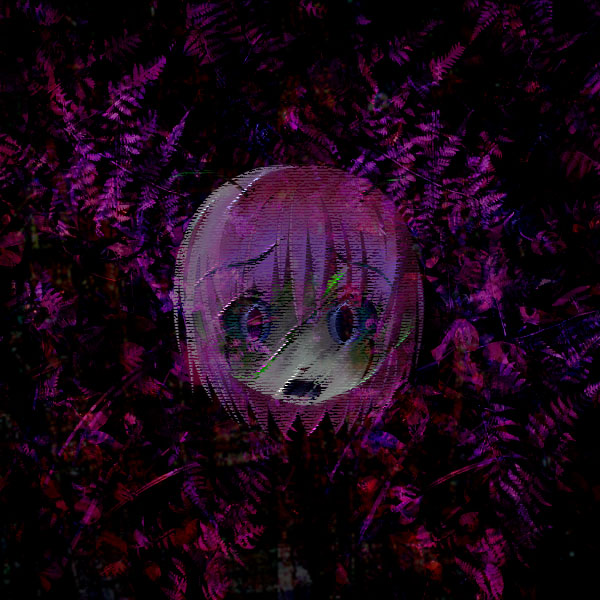
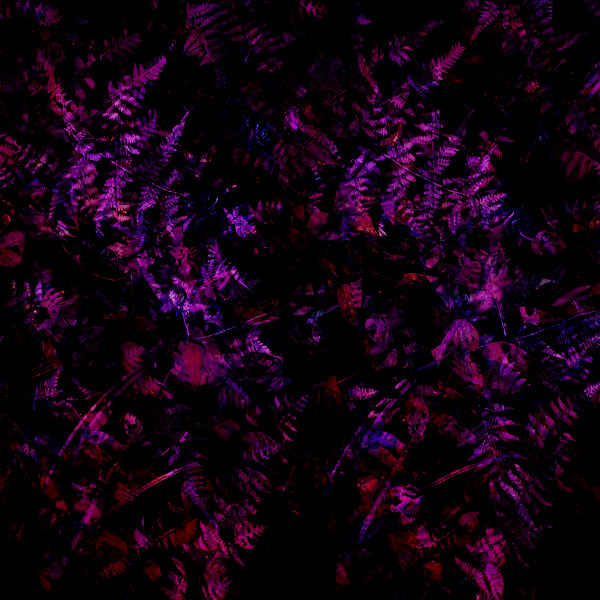
change page switch action

diff --git a/js/common-min.js b/js/common-min.js
@@ -1,1 +1,1 @@
-(function(){var a,b,c,d,e,f,g,h,i,j,k,l,m,n,o,p,q,r,s,t,u,v,w,x,y,z;a=60,q=function(a){return setTimeout(a,1e3/60)},m=navigator.userAgent.indexOf("iPhone")>0&&-1===navigator.userAgent.indexOf("iPad")||navigator.userAgent.indexOf("iPod")>0||navigator.userAgent.indexOf("Android")>0,v=function(){var a;a=document.createElement("style"),a.textContent="html,body {\n	margin : 0;\n	padding : 0;\n	background-color : black;\n	color : white;\n	overflow : hidden;\n	width : 100%;\n	height: 100%;\n}\nsection {\n	display : none;\n	position : fixed;\n	top : 0%;\n	left : 0%;\n	width : 100%;\n	height : 100%;\n	background-repeat : no-repeat;\n	background-position : center center;\n	background-size : cover;\n	text-align : center;\n}\n.lpBlock {\n	position : fixed;\n	dipslay : block;\n	width : 100%;\n	left : 0%;\n	top : 0%;\n	text-align : center;\n	margin : 0;\n	padding : 0;\n}\n.nowloading {\n	display : block;\n	position : fixed;\n	top : 0%;\n	left : 0%;\n	width : 100%;\n	height : 100%;\n	background-color: black;\n}\n.nowloading>.progress {\n	position : absolute;\n	bottom : 2%;\n	right : 2%;\n	width :100%;\n	text-align : right;\n}\n.nowloading>.progress>.logo {\n	display : inline-block;\n	width : 16px;\n	height : 16px;\n}",document.querySelector("head").appendChild(a)},x=function(){var a;a=document.createElement("div"),a.setAttribute("class","nowloading"),a.innerHTML="<div class='progress'>Now Loading (<span class='percent'>0</span>%)</div>",document.querySelector("body").appendChild(a)},p=function(){var a,b,c,e,g,h,i,j,k,l,m,n,o,p,q,r,s;for(i=document.querySelectorAll("img"),k=document.querySelector(".nowloading"),l=k.querySelector(".percent"),h=[],a=document.getElementsByTagName("*"),n=0,q=i.length;q>n;n++)g=i[n],h.push(g.getAttribute("src"));for(o=0,r=a.length;r>o;o++)e=a[o],d(e),b=e.getAttribute("lp-bg"),b&&h.push(b);for(c=0,p=0,s=h.length;s>p;p++)m=h[p],j=document.createElement("img"),j.onload=function(){return c++,l.textContent=parseInt(100*c/h.length),h.length<=c?(f(k),w()):void 0},j.onerror=function(){return alert("Can't load resource -> "+m)},j.src=m},f=function(a){var b,c,d,e;b=0,c=120,e=function(){return b++,b>c?(clearInterval(d),a.style.opacity=0,a.style.display="none"):a.style.opacity=(c-b)/c},d=setInterval(e,1e3/60)},d=function(a){var b,c,d,e,f,g;c=a.getAttribute("class"),c||(c=""),b=a.getAttribute("lp-bg"),b&&(a.style.backgroundImage="url("+b+")"),f=a.getAttribute("lp-x"),f&&(a.setAttribute("class",c+" lpBlock"),a.style.left=f+"%"),g=a.getAttribute("lp-y"),g&&(a.setAttribute("class",c+" lpBlock"),a.style.top=g+"%"),a.getAttribute("lp-speed")&&a.setAttribute("lp-text",a.textContent),e=a.getAttribute("lp-touch"),e&&("next"===e?a.addEventListener("click",j):"back"===e?a.addEventListener("click",i):(d=e.split(":"),"goto"===d[0]&&a.addEventListener("click",k)))},g=0,s=0,y=[],o=function(){var d,e,f,h,i,j;for(g++,s++,i=0,j=y.length;j>i;i++)f=y[i],d=(s-a)*parseInt(f.getAttribute("lp-speed"))*.02,f.textContent=f.getAttribute("lp-text").substring(0,d);a/2>s?(h=a/2,c.style.transform="scale("+(2+Math.cos(Math.PI/(1+s/h)))+")",c.style.opacity=(h-s)/(1*h)):a>=s&&(c&&(c.style.display="none"),h=a/2,e=s-h,b.style.display="block",b.style.transform="scale("+Math.sin(Math.PI/(1+e/h))+")",b.style.opacity=1-(h-e)/(1*h)),q(o)},t=[],r=0,n=0,b=null,c=null,h=function(a){var b,c,d,e,f,g;for(d=[],c=a.getElementsByTagName("*"),f=0,g=c.length;g>f;f++)b=c[f],e=b.getAttribute("lp-speed"),e&&d.push(b);return d},z=function(){var a;m||(c&&(a=c.querySelector("video"),a&&a.pause()),b&&(a=b.querySelector("video"),a&&a.play()))},w=function(){s=a/2,r=0,t=document.querySelectorAll("section"),n=t.length,b=t[r],y=h(b),b.style.display="block",o(),z()},j=function(){s=0,c=t[r],r++,r>=n&&(r=0),b=t[r],y=h(b),z()},i=function(){s=0,c=t[r],r--,0>r&&(r=n-1),b=t[r],y=h(b),z()},k=function(){var a;s=0,a=this.getAttribute("lp-touch").split(":"),c=b,b=document.querySelector("#"+a[1]),y=h(b),z()},u=function(a,b,c){var d,e,f;for(e=0,f=a.length;f>e;e++)d=a[e],d.style[b]=c},l=function(){v()},e=function(){x(),p()},l(),document.addEventListener("DOMContentLoaded",e)}).call(this);
+(function(){var a,b,c,d,e,f,g,h,i,j,k,l,m,n,o,p,q,r,s,t,u,v,w,x,y,z;a=60,q=function(a){return setTimeout(a,1e3/60)},m=navigator.userAgent.indexOf("iPhone")>0&&-1===navigator.userAgent.indexOf("iPad")||navigator.userAgent.indexOf("iPod")>0||navigator.userAgent.indexOf("Android")>0,v=function(){var a;a=document.createElement("style"),a.textContent="html,body {\n	margin : 0;\n	padding : 0;\n	background-color : black;\n	color : white;\n	overflow : hidden;\n	width : 100%;\n	height: 100%;\n}\nsection {\n	display : none;\n	position : fixed;\n	top : 0%;\n	left : 0%;\n	width : 100%;\n	height : 100%;\n	background-repeat : no-repeat;\n	background-position : center center;\n	background-size : cover;\n	text-align : center;\n}\n.lpBlock {\n	position : fixed;\n	dipslay : block;\n	width : 100%;\n	left : 0%;\n	top : 0%;\n	text-align : center;\n	margin : 0;\n	padding : 0;\n}\n.nowloading {\n	display : block;\n	position : fixed;\n	top : 0%;\n	left : 0%;\n	width : 100%;\n	height : 100%;\n	background-color: black;\n}\n.nowloading>.progress {\n	position : absolute;\n	bottom : 2%;\n	right : 2%;\n	width :100%;\n	text-align : right;\n}\n.nowloading>.progress>.logo {\n	display : inline-block;\n	width : 16px;\n	height : 16px;\n}",document.querySelector("head").appendChild(a)},x=function(){var a;a=document.createElement("div"),a.setAttribute("class","nowloading"),a.innerHTML="<div class='progress'>Now Loading (<span class='percent'>0</span>%)</div>",document.querySelector("body").appendChild(a)},p=function(){var a,b,c,e,g,h,i,j,k,l,m,n,o,p,q,r,s;for(i=document.querySelectorAll("img"),k=document.querySelector(".nowloading"),l=k.querySelector(".percent"),h=[],a=document.getElementsByTagName("*"),n=0,q=i.length;q>n;n++)g=i[n],h.push(g.getAttribute("src"));for(o=0,r=a.length;r>o;o++)e=a[o],d(e),b=e.getAttribute("lp-bg"),b&&h.push(b);for(c=0,p=0,s=h.length;s>p;p++)m=h[p],j=document.createElement("img"),j.onload=function(){return c++,l.textContent=parseInt(100*c/h.length),h.length<=c?(f(k),w()):void 0},j.onerror=function(){return alert("Can't load resource -> "+m)},j.src=m},f=function(a){var b,c,d,e;b=0,c=120,e=function(){return b++,b>c?(clearInterval(d),a.style.opacity=0,a.style.display="none"):a.style.opacity=(c-b)/c},d=setInterval(e,1e3/60)},d=function(a){var b,c,d,e,f,g;c=a.getAttribute("class"),c||(c=""),b=a.getAttribute("lp-bg"),b&&(a.style.backgroundImage="url("+b+")"),f=a.getAttribute("lp-x"),f&&(a.setAttribute("class",c+" lpBlock"),a.style.left=f+"%"),g=a.getAttribute("lp-y"),g&&(a.setAttribute("class",c+" lpBlock"),a.style.top=g+"%"),a.getAttribute("lp-speed")&&a.setAttribute("lp-text",a.textContent),e=a.getAttribute("lp-touch"),e&&("next"===e?a.addEventListener("click",j):"back"===e?a.addEventListener("click",i):(d=e.split(":"),"goto"===d[0]&&a.addEventListener("click",k)))},g=0,s=0,y=[],o=function(){var d,e,f,h,i,j;for(g++,s++,i=0,j=y.length;j>i;i++)f=y[i],d=(s-a)*parseInt(f.getAttribute("lp-speed"))*.02,f.textContent=f.getAttribute("lp-text").substring(0,d);a/2>s?(h=a/2,c.style.transform="scale("+(1.5+.5*Math.cos(Math.PI/(1+s/h)))+")",c.style.opacity=(h-s)/(1*h)):a>=s&&(c&&(c.style.display="none"),h=a/2,e=s-h,b.style.display="block",b.style.transform="scale("+(.5+.5*Math.sin(Math.PI/(1+e/h)))+")",b.style.opacity=1-(h-e)/(1*h)),q(o)},t=[],r=0,n=0,b=null,c=null,h=function(a){var b,c,d,e,f,g;for(d=[],c=a.getElementsByTagName("*"),f=0,g=c.length;g>f;f++)b=c[f],e=b.getAttribute("lp-speed"),e&&d.push(b);return d},z=function(){var a;m||(c&&(a=c.querySelector("video"),a&&a.pause()),b&&(a=b.querySelector("video"),a&&a.play()))},w=function(){s=a/2,r=0,t=document.querySelectorAll("section"),n=t.length,b=t[r],y=h(b),b.style.display="block",o(),z()},j=function(){s=0,c=t[r],r++,r>=n&&(r=0),b=t[r],y=h(b),z()},i=function(){s=0,c=t[r],r--,0>r&&(r=n-1),b=t[r],y=h(b),z()},k=function(){var a;s=0,a=this.getAttribute("lp-touch").split(":"),c=b,b=document.querySelector("#"+a[1]),y=h(b),z()},u=function(a,b,c){var d,e,f;for(e=0,f=a.length;f>e;e++)d=a[e],d.style[b]=c},l=function(){v()},e=function(){x(),p()},l(),document.addEventListener("DOMContentLoaded",e)}).call(this);
